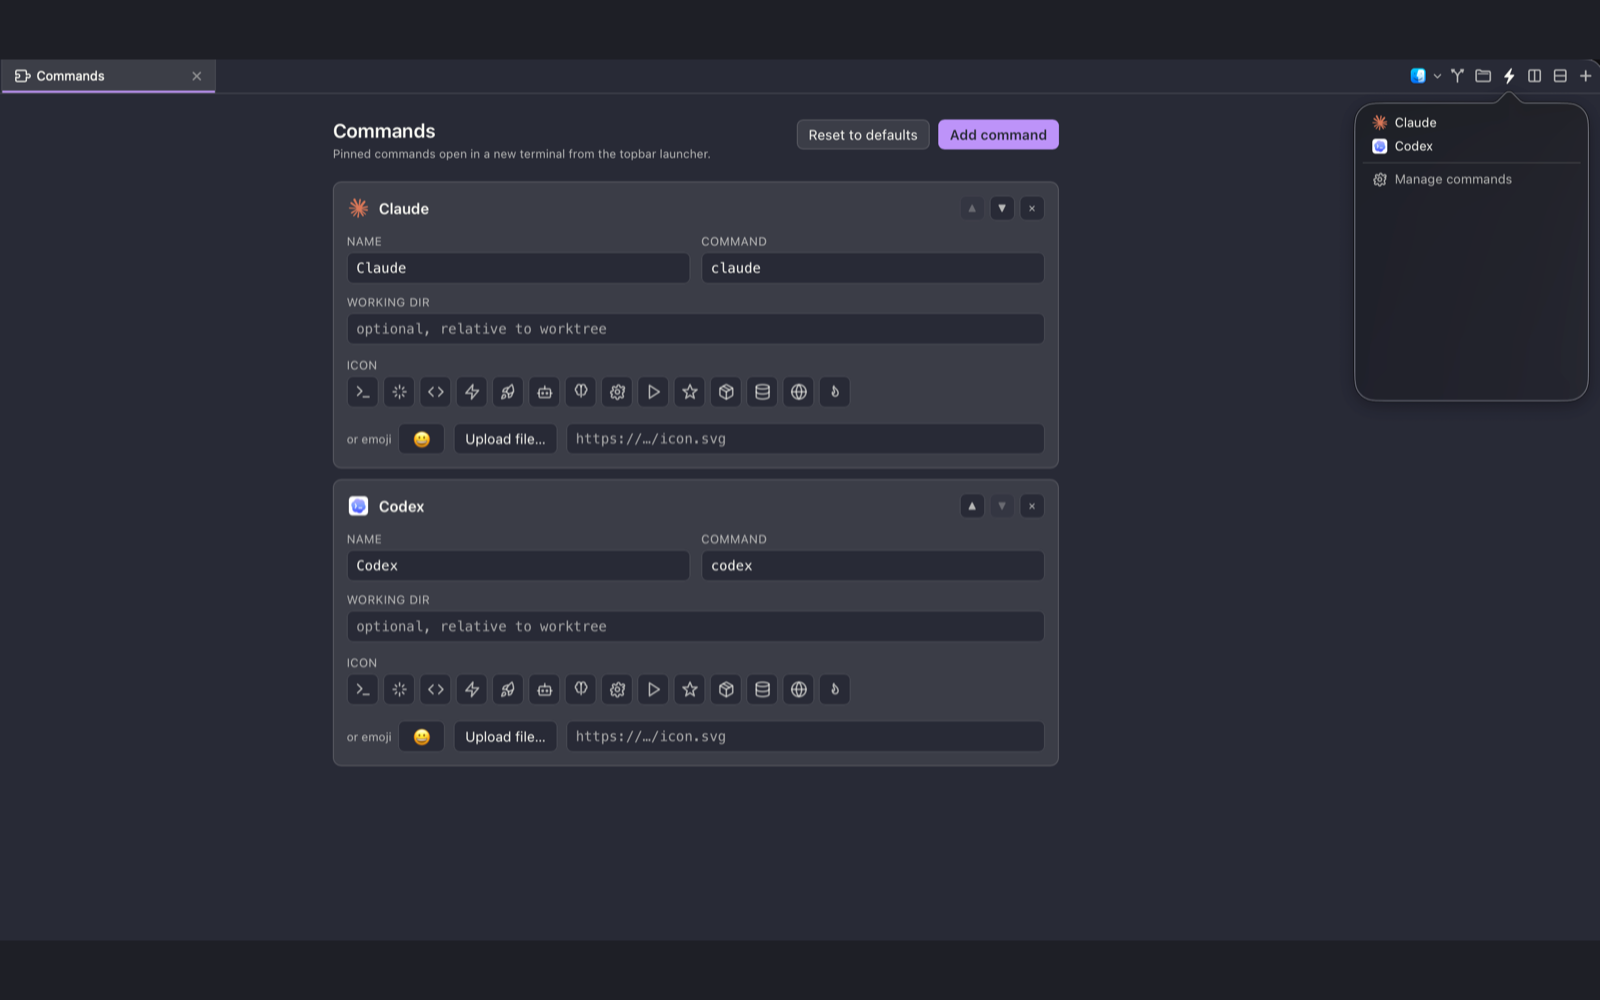
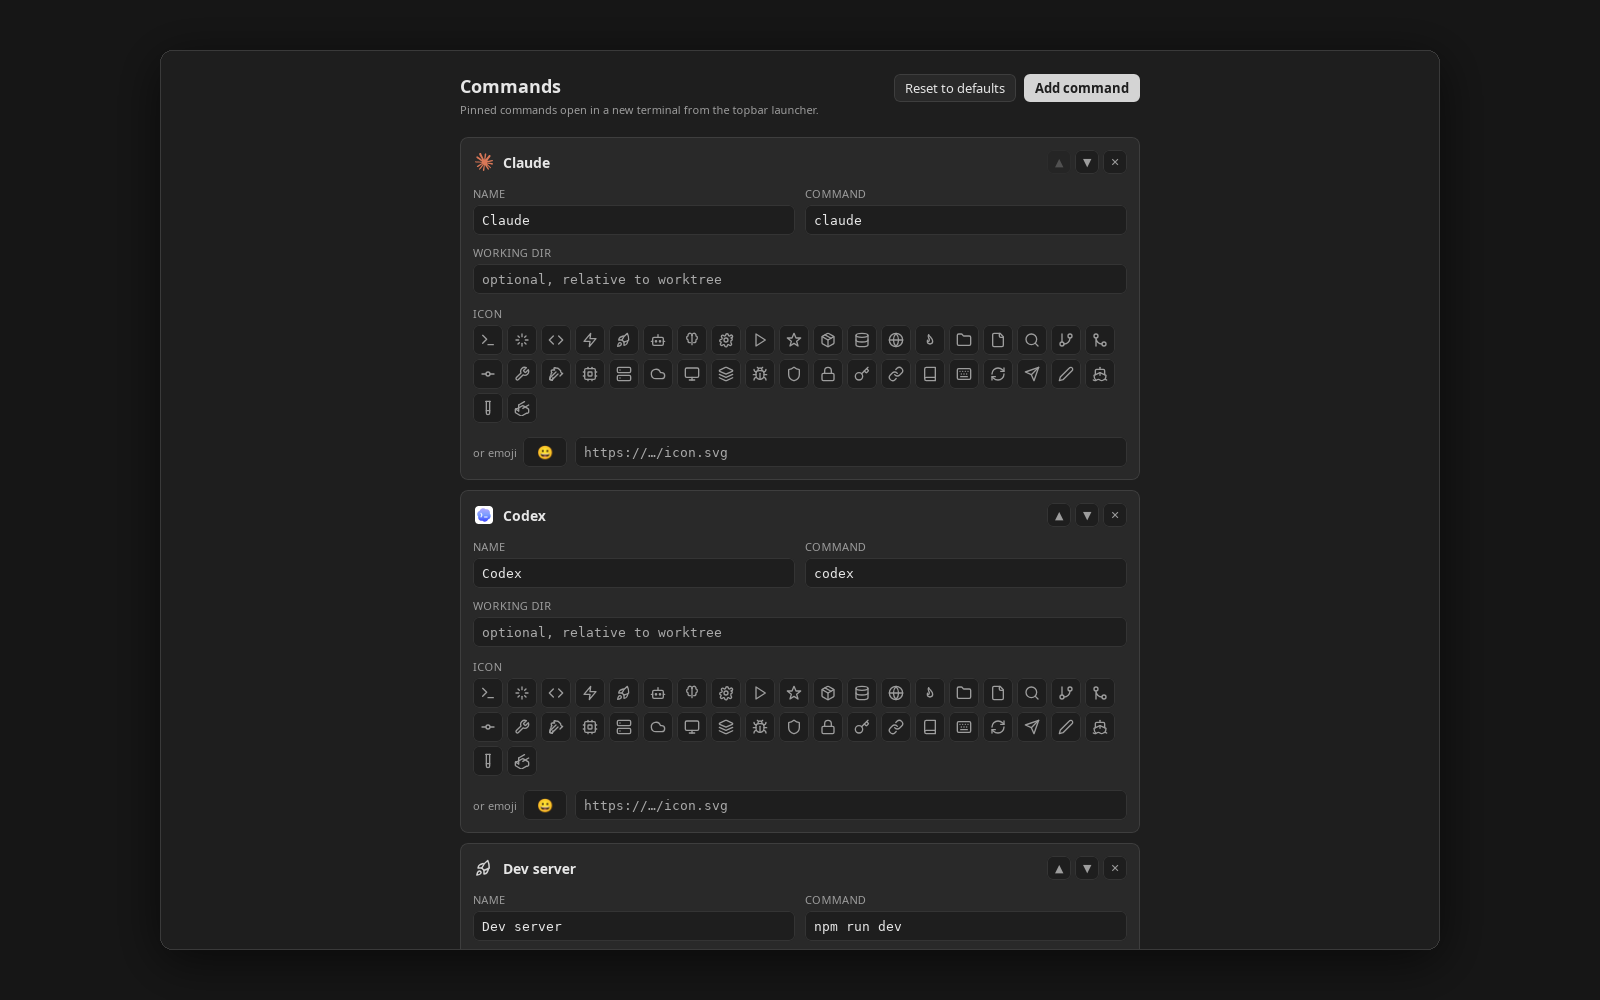
commands 0.1.2: neutral listing screenshots, credits (#25)

diff --git a/tools/harness/fixtures/commands.js b/tools/harness/fixtures/commands.js
@@ -1,0 +1,13 @@
+// Sample pinned commands for the commands extension (stored in localStorage by the extension itself).
+(() => {
+  const cmds = [
+    { id: "claude", name: "Claude", command: "claude", icon: "../icons/claude.svg", cwd: "" },
+    { id: "codex", name: "Codex", command: "codex", icon: "../icons/codex.svg", cwd: "" },
+    { id: "dev", name: "Dev server", command: "npm run dev", icon: "rocket", cwd: "apps/web" },
+    { id: "test", name: "Run tests", command: "npm test -- --watch", icon: "tube", cwd: "" },
+    { id: "logs", name: "Tail logs", command: "tail -f logs/app.log", icon: "file", cwd: "" },
+    { id: "db", name: "Database shell", command: "psql acme_dev", icon: "database", cwd: "" },
+  ];
+  try { localStorage.setItem("atur-launcher:commands", JSON.stringify(cmds)); } catch (_) { /* ignore */ }
+  window.addEventListener("load", () => setTimeout(() => { window.__ready = true; }, 600));
+})();

diff --git a/extensions/commands/README.md b/extensions/commands/README.md
@@ -27,3 +27,7 @@ npm run build
 
 Then **Load Unpacked** this folder in the Atur Terminal Extensions modal, or **Reload**
 after rebuilding.
+
+## Credits
+
+Originally published in muxy-app/extensions (MIT) by long2ice. Maintained by Atur Terminal.
